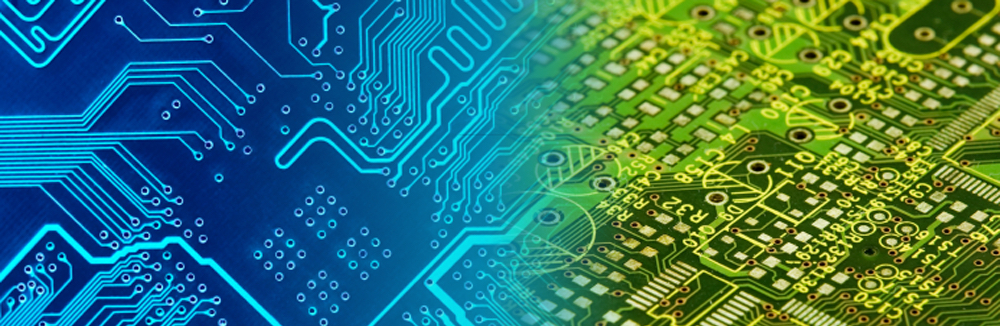
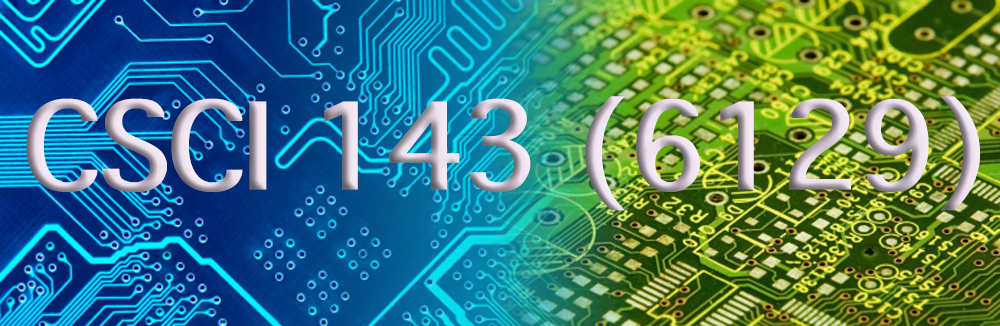
Readme/photo title updated.

Changed region(s): [[0.558, 0.2761, 0.992, 0.6442], [0.0, 0.2761, 0.279, 0.6135], [0.31, 0.3067, 0.558, 0.5828]]

diff --git a/README.md b/README.md
@@ -4,8 +4,9 @@
  ![Alt text](/photos/title.jpg "Optional title")
 
 
-*         Copyright (c) 2014 by Garrett J. Beasley/Michael Ford
+*         Copyright (c) 2014/2015 by Garrett J. Beasley/Michael Ford
 
-1. PP.console.io
-2. PP.inheritance.animal
-3. PP.webRegistration
+1. PP.console.io    (Basic console input/output via scanner)
+2. PP.inheritance.animal    (Inheritance with triple classes)
+3. PP.webRegistration   (Exceptions Try/Catch)
+4. PP.babyname.finder   (FileIO Reading/Writing)
